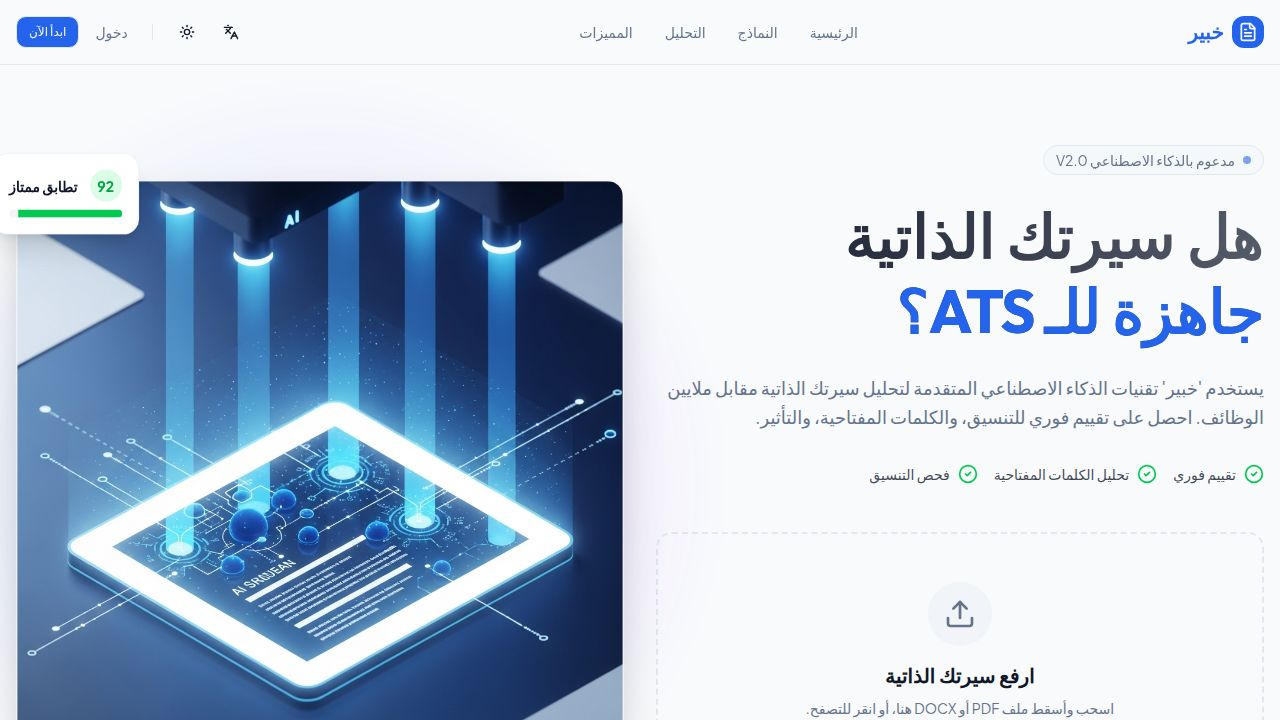
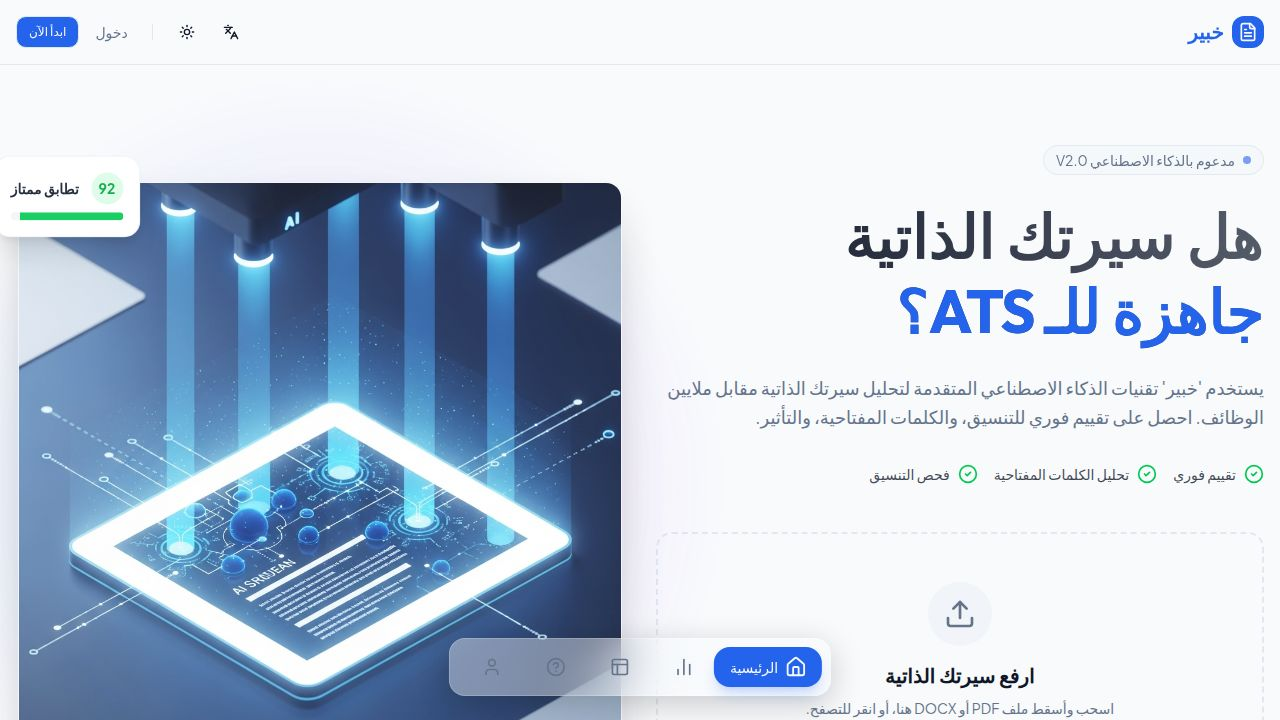
Add an FAQ page to explain AI functionality and improve user trust
Create a new FAQ page with an accordion component, incorporating questions and answers in both English and Arabic, and add a corresponding route and navigation link.

Replit-Commit-Author: Agent
Replit-Commit-Session-Id: d67fe4a0-173e-436e-bb5b-6a13e077fa2e
Replit-Commit-Checkpoint-Type: full_checkpoint
Replit-Commit-Event-Id: 175a43d5-1399-434c-ae2f-11abda9460a3
Replit-Commit-Screenshot-Url: https://storage.googleapis.com/screenshot-production-us-central1/b7c34ca0-cc9a-4a40-aabc-a2c4bbe87384/d67fe4a0-173e-436e-bb5b-6a13e077fa2e/IKJsAjY
Replit-Helium-Checkpoint-Created: true

diff --git a/client/src/pages/FAQ.tsx b/client/src/pages/FAQ.tsx
@@ -1,0 +1,113 @@
+import { Navbar } from "@/components/layout/Navbar";
+import { Accordion, AccordionContent, AccordionItem, AccordionTrigger } from "@/components/ui/accordion";
+import { motion } from "framer-motion";
+import { useEffect, useState } from "react";
+import { HelpCircle, ShieldCheck, Zap, Cpu, Search } from "lucide-react";
+import { Badge } from "@/components/ui/badge";
+
+const faqs = [
+  {
+    id: "item-1",
+    questionEn: "How does Khabir AI analyze my resume?",
+    questionAr: "كيف يقوم خبير AI بتحليل سيرتي الذاتية؟",
+    answerEn: "Our AI uses advanced Natural Language Processing (NLP) to scan your resume just like an Applicant Tracking System (ATS). It identifies keywords, experience patterns, and structural issues to give you a realistic score.",
+    answerAr: "يستخدم ذكاؤنا الاصطناعي معالجة اللغات الطبيعية (NLP) المتقدمة لمسح سيرتك الذاتية تماماً كما يفعل نظام تتبع المتقدمين (ATS). يحدد الكلمات المفتاحية، أنماط الخبرة، والمشاكل الهيكلية ليعطيك نتيجة واقعية.",
+    icon: Cpu
+  },
+  {
+    id: "item-2",
+    questionEn: "Is my personal data safe?",
+    questionAr: "هل بياناتي الشخصية آمنة؟",
+    answerEn: "Absolutely. We prioritize your privacy. Your uploaded files are processed in real-time and are not stored permanently unless you choose to save them to your profile. We never share your data with third parties.",
+    answerAr: "بكل تأكيد. نحن نضع خصوصيتك كأولوية قصوى. يتم معالجة ملفاتك المرفوعة في الوقت الفعلي ولا يتم تخزينها بشكل دائم إلا إذا اخترت حفظها في ملفك الشخصي. نحن لا نشارك بياناتك مع أي طرف ثالث.",
+    icon: ShieldCheck
+  },
+  {
+    id: "item-3",
+    questionEn: "What is an ATS score?",
+    questionAr: "ما هي درجة الـ ATS؟",
+    answerEn: "ATS stands for Applicant Tracking System. Most companies use this software to filter resumes. A higher score means your resume is more likely to be seen by a human recruiter because it matches the formatting and keyword requirements.",
+    answerAr: "ATS هو اختصار لنظام تتبع المتقدمين. تستخدم معظم الشركات هذه البرامج لتصفية السير الذاتية. النتيجة العالية تعني أن سيرتك الذاتية أكثر عرضة للمراجعة من قبل مسؤول توظيف بشري لأنها تطابق متطلبات التنسيق والكلمات المفتاحية.",
+    icon: Search
+  },
+  {
+    id: "item-4",
+    questionEn: "How can I improve my score quickly?",
+    questionAr: "كيف يمكنني تحسين درجتي بسرعة؟",
+    answerEn: "Use our 'AI Smart Fix' feature! It identifies specific areas for improvement and suggests precise wording changes that are more likely to pass through automated filters.",
+    answerAr: "استخدم ميزة 'الإصلاح الذكي' الخاصة بنا! فهي تحدد مجالات معينة للتحسين وتقترح تغييرات دقيقة في الصياغة من المرجح أن تمر عبر الفلاتر الآلية.",
+    icon: Zap
+  }
+];
+
+export default function FAQ() {
+  const [isRtl, setIsRtl] = useState(false);
+
+  useEffect(() => {
+    const checkLang = () => setIsRtl(document.documentElement.dir === 'rtl');
+    checkLang();
+    const observer = new MutationObserver(checkLang);
+    observer.observe(document.documentElement, { attributes: true, attributeFilter: ['dir'] });
+    return () => observer.disconnect();
+  }, []);
+
+  return (
+    <div className="min-h-screen bg-muted/20 font-sans pb-24">
+      <Navbar />
+      <main className="container px-4 mx-auto py-16">
+        <div className="text-center max-w-2xl mx-auto mb-16">
+          <Badge className="mb-4 px-4 py-1 rounded-full bg-primary/10 text-primary border-primary/20">
+            {isRtl ? "مركز المساعدة" : "Help Center"}
+          </Badge>
+          <h1 className="text-4xl font-heading font-bold mb-4 flex items-center justify-center gap-3">
+            <HelpCircle className="h-10 w-10 text-primary" />
+            {isRtl ? "الأسئلة الشائعة" : "Frequently Asked Questions"}
+          </h1>
+          <p className="text-muted-foreground text-lg">
+            {isRtl 
+              ? "كل ما تحتاج معرفته عن كيفية عمل خبير AI وتطوير مسارك المهني."
+              : "Everything you need to know about how Khabir AI works and boosts your career path."}
+          </p>
+        </div>
+
+        <div className="max-w-3xl mx-auto">
+          <Accordion type="single" collapsible className="space-y-4">
+            {faqs.map((faq, index) => (
+              <motion.div
+                key={faq.id}
+                initial={{ opacity: 0, x: isRtl ? 20 : -20 }}
+                animate={{ opacity: 1, x: 0 }}
+                transition={{ delay: index * 0.1 }}
+              >
+                <AccordionItem value={faq.id} className="bg-card border border-primary/10 rounded-2xl overflow-hidden px-6 shadow-sm hover:shadow-md transition-shadow">
+                  <AccordionTrigger className="hover:no-underline py-6">
+                    <div className={`flex items-center gap-4 ${isRtl ? 'text-right' : 'text-left'}`}>
+                      <div className="h-10 w-10 rounded-xl bg-primary/5 flex items-center justify-center shrink-0">
+                        <faq.icon className="h-5 w-5 text-primary" />
+                      </div>
+                      <span className="text-lg font-semibold">
+                        {isRtl ? faq.questionAr : faq.questionEn}
+                      </span>
+                    </div>
+                  </AccordionTrigger>
+                  <AccordionContent className="text-muted-foreground text-base leading-relaxed pb-6 pt-2">
+                    {isRtl ? faq.answerAr : faq.answerEn}
+                  </AccordionContent>
+                </AccordionItem>
+              </motion.div>
+            ))}
+          </Accordion>
+        </div>
+
+        <div className="mt-20 text-center">
+          <p className="text-muted-foreground mb-4">
+            {isRtl ? "هل لديك سؤال آخر؟" : "Have more questions?"}
+          </p>
+          <a href="mailto:support@khabir.ai" className="text-primary font-bold hover:underline">
+            support@khabir.ai
+          </a>
+        </div>
+      </main>
+    </div>
+  );
+}

diff --git a/client/src/components/layout/FloatingNav.tsx b/client/src/components/layout/FloatingNav.tsx
@@ -1,5 +1,5 @@
 import { Link, useLocation } from "wouter";
-import { Home, FileText, BarChart2, Layout, Settings, User } from "lucide-react";
+import { Home, FileText, BarChart2, Layout, Settings, User, HelpCircle } from "lucide-react";
 import { cn } from "@/lib/utils";
 import { motion } from "framer-motion";
 import { useEffect, useState } from "react";
@@ -21,6 +21,7 @@ export function FloatingNav() {
     { href: "/", icon: Home, labelAr: "الرئيسية", labelEn: "Home" },
     { href: "/analysis", icon: BarChart2, labelAr: "التحليل", labelEn: "Analysis" },
     { href: "/templates", icon: Layout, labelAr: "النماذج", labelEn: "Templates" },
+    { href: "/faq", icon: HelpCircle, labelAr: "الأسئلة", labelEn: "FAQ" },
     { href: "/auth", icon: User, labelAr: "حسابي", labelEn: "Profile" },
   ];
 

diff --git a/client/src/App.tsx b/client/src/App.tsx
@@ -10,6 +10,7 @@ import Home from "@/pages/Home";
 import Analysis from "@/pages/Analysis";
 import Auth from "@/pages/Auth";
 import Templates from "@/pages/Templates";
+import FAQ from "@/pages/FAQ";
 
 function Router() {
   return (
@@ -17,6 +18,7 @@ function Router() {
       <Route path="/" component={Home} />
       <Route path="/analysis" component={Analysis} />
       <Route path="/templates" component={Templates} />
+      <Route path="/faq" component={FAQ} />
       <Route path="/login" component={Auth} />
       <Route path="/register" component={Auth} />
       <Route component={NotFound} />
